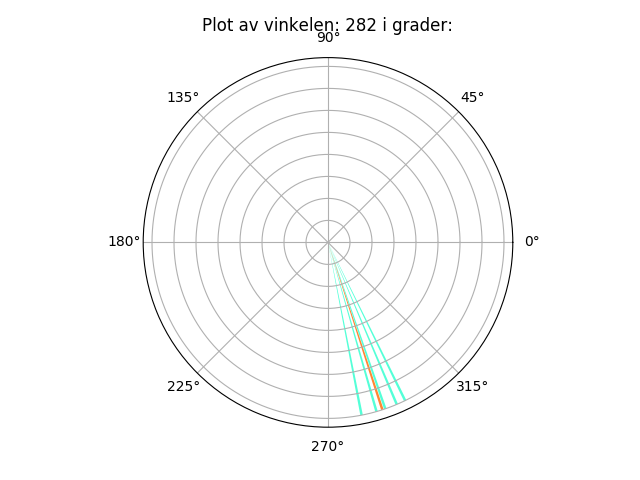
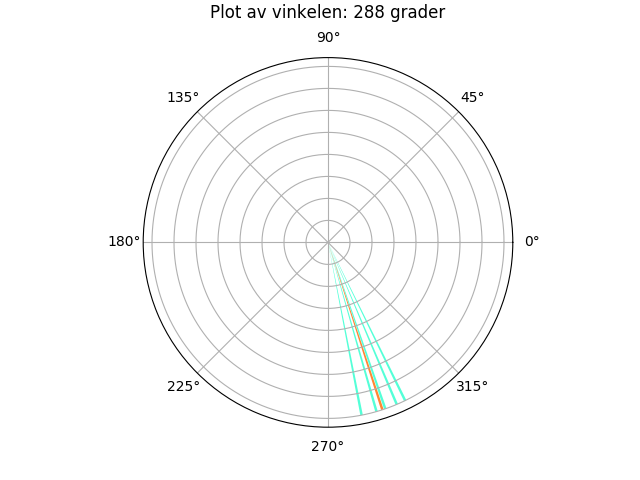
Target is now title of plot and added padding

Changed region(s): [[0.3125, 0.0, 0.7188, 0.0625]]

diff --git a/buggesmatteland.py b/buggesmatteland.py
@@ -157,7 +157,7 @@ def circlePlot5Angles(angle1,angle2,angle3,angle4,angle5,target,targetpos):
     ax = plt.subplot(111, polar=True)
     bars = ax.bar(theta, radii, width=width, bottom=bottom)
     ax.set_yticklabels([])
-    ax.set_title("Plot av vinkelen: " + str(int(round(angle1))) + " grader")
+    ax.set_title("Plot av vinkelen: " + str(int(round(target))) + " grader",pad=15.0)
 
     # Spicy farger
     counter = 0
